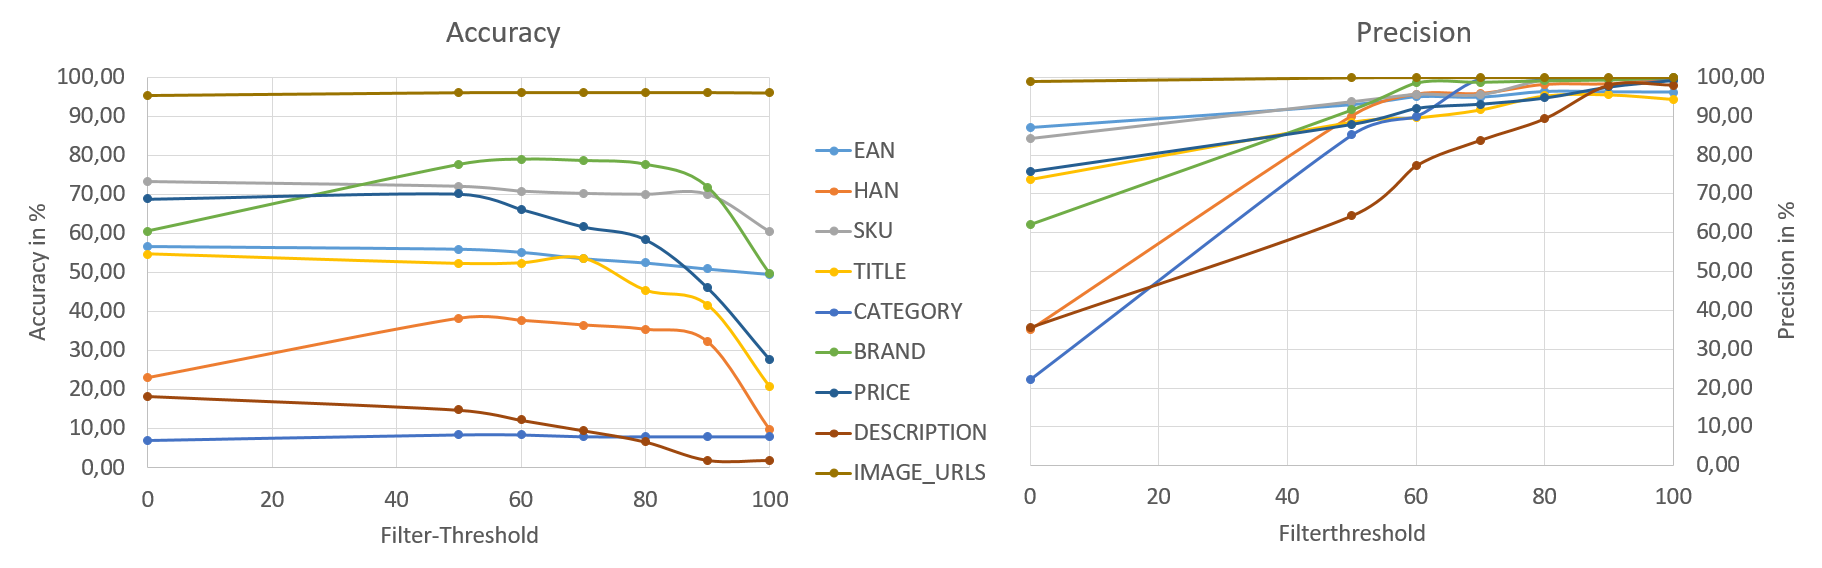
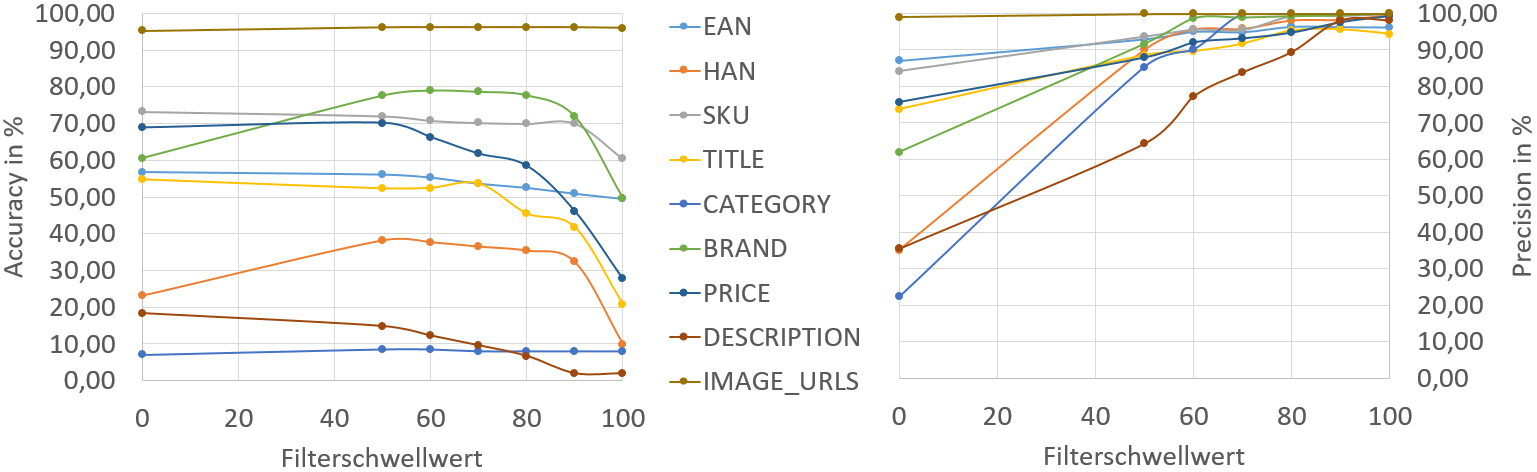
Feedback ready: "Die Messergebnisse"

diff --git a/src/Evaluierung.tex b/src/Evaluierung.tex
@@ -33,22 +33,26 @@ Testmenge und weicht um maximal 0.88\% bei der Produkteigenschaft "Marke" ab.
 
 \subsection{Die Messergebnisse}
 \label{subsec:genauigkeitsmessung}
-Die Genauigkeit des Parser wurde bestimmt, indem die Extraktionsregeln auf der Testmenge angewandt wurden.
-Die Treffergenauigkeit wurde dabei in Abhängigkeit der Menge der Angebote \textit{SaS}, welche für das Anlernen
-verwendet wurden, sowie des in Kapitel~\ref{subsec:bewertungssystem} eingeführten Filter-Schwellwertes \textit{F}
-bestimmt.
-In der Tabelle~\ref{tab:accuracy-precision} sind die Treffergenauigkeit (\textit{accuracy}) und die Genauigkeit
-(\textit{precision}) aufgeführt.
-Die Treffergenauigkeit gibt an, wie oft ein Produktattribut korrekt erfasst wurde und entspricht in diesem Fall der
-Trefferquote (\textit{recall}).
-Die Genauigkeit berücksichtigt zusätzlich die Fälle, in denen der Parser explizit nichts zurück gibt.
-In allen Statistiken wurden die Produkteigenschaften ignoriert, bei denen idealo keine Produktattribute gespeichert hat.
-In diesem Fall ist es nicht möglich zu entscheiden, ob das vom Parser extrahierte korrekt ist.
+
+Für jeden Shop wurden 21 Regelmengen basierend auf der Trainingsmenge erzeugt, welche sich aus der Kombination
+verschiedener Konfigurationen ergeben.
+Diese Konfigurationen umfasst zum einen die Anzahl der verwendeten Angebote für das Antrainieren ($SaS$) und zum
+anderen den in Kapitel~\ref{subsec:bewertungssystem} eingeführten Filterschwellwert ($F$).
+
+In allen Statistiken wurden die Fälle ignoriert, bei denen idealo keine Produktattribute gespeichert hat.
+Für diese ist es unmöglich zu entscheiden, ob die extrahierten Angebotsinformationen korrekt sind.
+
+Die Bestimmung der Genauigkeit erfolgte durch die Anwendung aller Regelmengen auf die Testmenge.
+Anschließend wurde ausgewertet, wie oft der extrahierte Wert dem von idealo entspricht.
+Zudem wurde für die Bestimmung der Precision erfasst, ob der Wert leer ist.
+In der Tabelle~\ref{tab:accuracy-precision} sind die typischen Kennziffern Accuracy und Precision für die
+verschiedenen Konfigurationen aufgeführt.
+Die Accuracy entspricht in diesem Fall gleichzeitig dem Recall.
 
 \begin{table}[h]
     \centering
     \begin{tabular}{ c | c c c | c c c }
-        &   \multicolumn{3}{c}{\textit{Treffergenauigkeit in \%}}    &   \multicolumn{3}{c}{\textit{Genauigkeit in \%}} \\
+        &   \multicolumn{3}{c}{\textit{Accuracy in \%}}    &   \multicolumn{3}{c}{\textit{Precision in \%}} \\
         \textbf{F\textbackslash SaS} & \textbf{10} & \textbf{20} & \textbf{50} & \textbf{10} & \textbf{20} & \textbf{50}  \\
         \hline
         \textbf{0}       &   50.59 &   50.78 &   51.07         &   72.73 &   70.81 &   69.62 \\
@@ -60,45 +64,34 @@ In diesem Fall ist es nicht möglich zu entscheiden, ob das vom Parser extrahier
         \textbf{1.0}     &   41.48 &   39.27 &   36.00         &   98.17 &   97.64 &   \textbf{98.90}
 
     \end{tabular}
-    \caption{Treffergenauigkeit und Genauigkeit bei unterschiedlichen Konfigurationen}
+    \caption{Accuracy und Precision bei unterschiedlichen Konfigurationen}
     \label{tab:accuracy-precision}
 \end{table}
 
-Die vom Parser extrahierten Angebotsinformationen werden von der Matcher-Komponente für den ähnlichkeitsbasierten
-Vergleich verwendet.
-Dazu ist es wichtig, eine gute Balance zwischen Treffergenauigkeit und Genauigkeit zu finden.
-Da es nicht unbedingt darum geht, dass die extahierten Informationen \textit{exakt} dem Schema von idealo entspricht,
-ist die Treffergenauigkeit etwas wichtiger, als die Genauigkeit.
-Laut den in Tabelle~\ref{tab:accuracy-precision} angegeben Werten, scheinen die besten Ergebnisse bei einem
-Schwellwert von $F=0.6$ und $SaS=50$ erreicht zu werden.
-
-Für jede Nichtübereinstimmung wurde die Levenshtein-Distanz zum erwarteten Wert von idealo berechnet.
-In etwa 50\% der Nichtübereinstimmungen haben eine Distanz kleiner gleich drei und sind somit sehr ähnlich.
-Eine manuelle Prüfung hat ergeben, dass oftmals Kodierungsfehler oder unterschiedliche Trennzeichen eine eindeutige
+In etwa die Hälfte der Nichtübereinstimmungen weisen eine Levenshtein-Distanz $\leq 3$ zum erwarteten Wert von idealo
+auf und sind somit sehr ähnlich.
+Eine manuelle Prüfung hat ergeben, dass oftmals Kodierungsfehler oder unterschiedliche Trennzeichen eine
 Übereinstimmung verhindern.
 
-Eine nähere Betrachtung der Kennziffern je Attribut liefert weitere Aufschlüsse, welche für das Matching relevant sind.
+Eine nähere Betrachtung der Kennziffern je Attribut liefert Abbildung~\ref{abb:testdaten}.
+
+Wie erwartet, wird die Produktbeschreibung und die Kategorie selten extrahiert.
+Dies hängt vermutlich damit zusammen, dass diese Informationen am stärksten von idealo manipuliert werden.
+Interessanterweise wird die HAN ebenfalls selten extrahiert, was vermutlich durch das häufige Fehlen der HAN in den
+Testdaten zusammenhängt.
+
+Die in der Bildurl enthaltene ID und die Marke werden häufig gefunden und somit vermutlich sehr nützliche Features für
+den maschinenlernbasierten Vergleich des Matchers sein.
 
 \begin{figure}[H]
     \centering
     \includegraphics[width=\textwidth]{resources/accuracy-and-precision-per-attribute.PNG}
-    \caption{Treffergenauigkeit und Genauigkeit pro Attribut für $SaS=50$}
+    \caption{Accuracy (links) und Precision (rechts) pro Attribut für $SaS=50$}
     \label{abb:testdaten}
 \end{figure}
 
-Den Diagrammen aus Abbildung~\ref{abb:testdaten} kann man mehrere, für das Matching nützliche Informationen entnehmen.
-Wie erwartet, wird die Produktbeschreibung und die Kategorie selten extrahiert.
-Dies hängt damit zusammen, dass diese Informationen am stärksten von idealo manipuliert werden.
-Interessanterweise wird die HAN ebenfalls selten extrahiert, was vermutlich mit den Testdaten zusammenhängt.
-In diesen kommt die HAN nur in zwei von drei Angeboten vor und ist damit die am seltensten angegebene
-Produkteigenschaft.
-Am häufigsten wird die Bildurl und die Marke gefunden.
-Aus dem Diagramm, welches die Genauigkeit je Attribut darstellt kann man sehr gut entnehmen, dass der Schwellwert ein
-gutes Mittel ist, die Genauigkeit direkt zu beeinflussen.
-Insgesamt kann man für die Matcher-Komponente eine sehr interessante Erkenntnis gewinnen, welche wir vorher nicht in
-Betracht gezogen haben.
-So scheint die Bildurl sehr häufig und korrekt erfasst zu werden.
-Die Bildurl kann als starker Selektor, ähnlich wie den eindeutigen Produkteigenschaften verwendet werden.
+Zu guter letzt kann man dem Diagramm entnehmen, dass der Filterschwellwert ein gutes Mittel ist, um die Accuracy und
+Precision zu beeinflussen und ein höherer SaS-Wert tendenziell besser ist.
 
 \subsection{Mögliche Fehlerquellen der Messung}
 \label{subsec:fehlerquellen}
